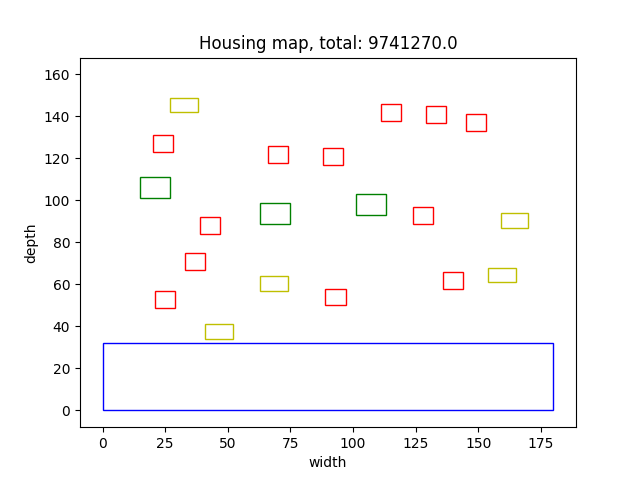
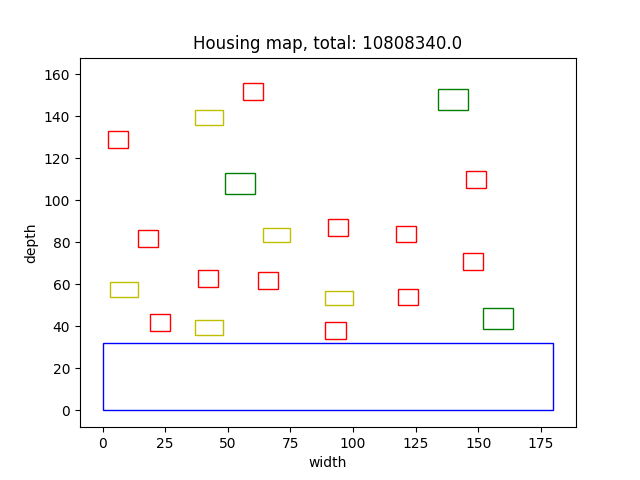
fixed randomize with deepcopy

diff --git a/project_code/algorithms/render_randomise.py b/project_code/algorithms/render_randomise.py
@@ -3,6 +3,7 @@ from project_code.classes.house import House
 from shapely.geometry import Polygon
 import random
 from project_code.algorithms.randomise import randomise_coordinates
+from copy import deepcopy
 
 
 class Randomise():
@@ -94,6 +95,7 @@ class Randomise():
         highest_scoring_map = None
         highest_score = 0
         for n in range(iterations):
+            copy_map = deepcopy(housing_map)
             # for house in range(number_houses):
             #     random_house = choose_random_house()
             # random huis die we gaan plaatsen
@@ -102,7 +104,7 @@ class Randomise():
             # 2e iteratie moet weer zelfde doen maar dan waarde vergelijken met 1e iteratie
             # meest waarde volle kaart onthouden
             
-            resulting_map = self.load_houses(number_houses, housing_map)
+            resulting_map = self.load_houses(number_houses, copy_map)
             
             resulting_map.calculate_distance(resulting_map.all_land_objects)
             total_value = resulting_map.calculate_price(resulting_map.all_land_objects)

diff --git a/main.py b/main.py
@@ -24,12 +24,10 @@ if __name__ == "__main__":
     
     # --------------------------- Random  --------------------------
     empty_graph = Land(f"data/{wijk_number}.csv")
-    winner_graph = Randomise(empty_graph, number_of_houses, 10)
+    winner_graph = Randomise(empty_graph, number_of_houses, 20)
     visualise(winner_graph.winner.all_land_objects, winner_graph.winner.total)
 
 
-    print(f"Value of the configuration after render_rendomise: "
-          f"{random_graph.calculate_value()}")
 
     # ---------------------------------------------------------------
 
